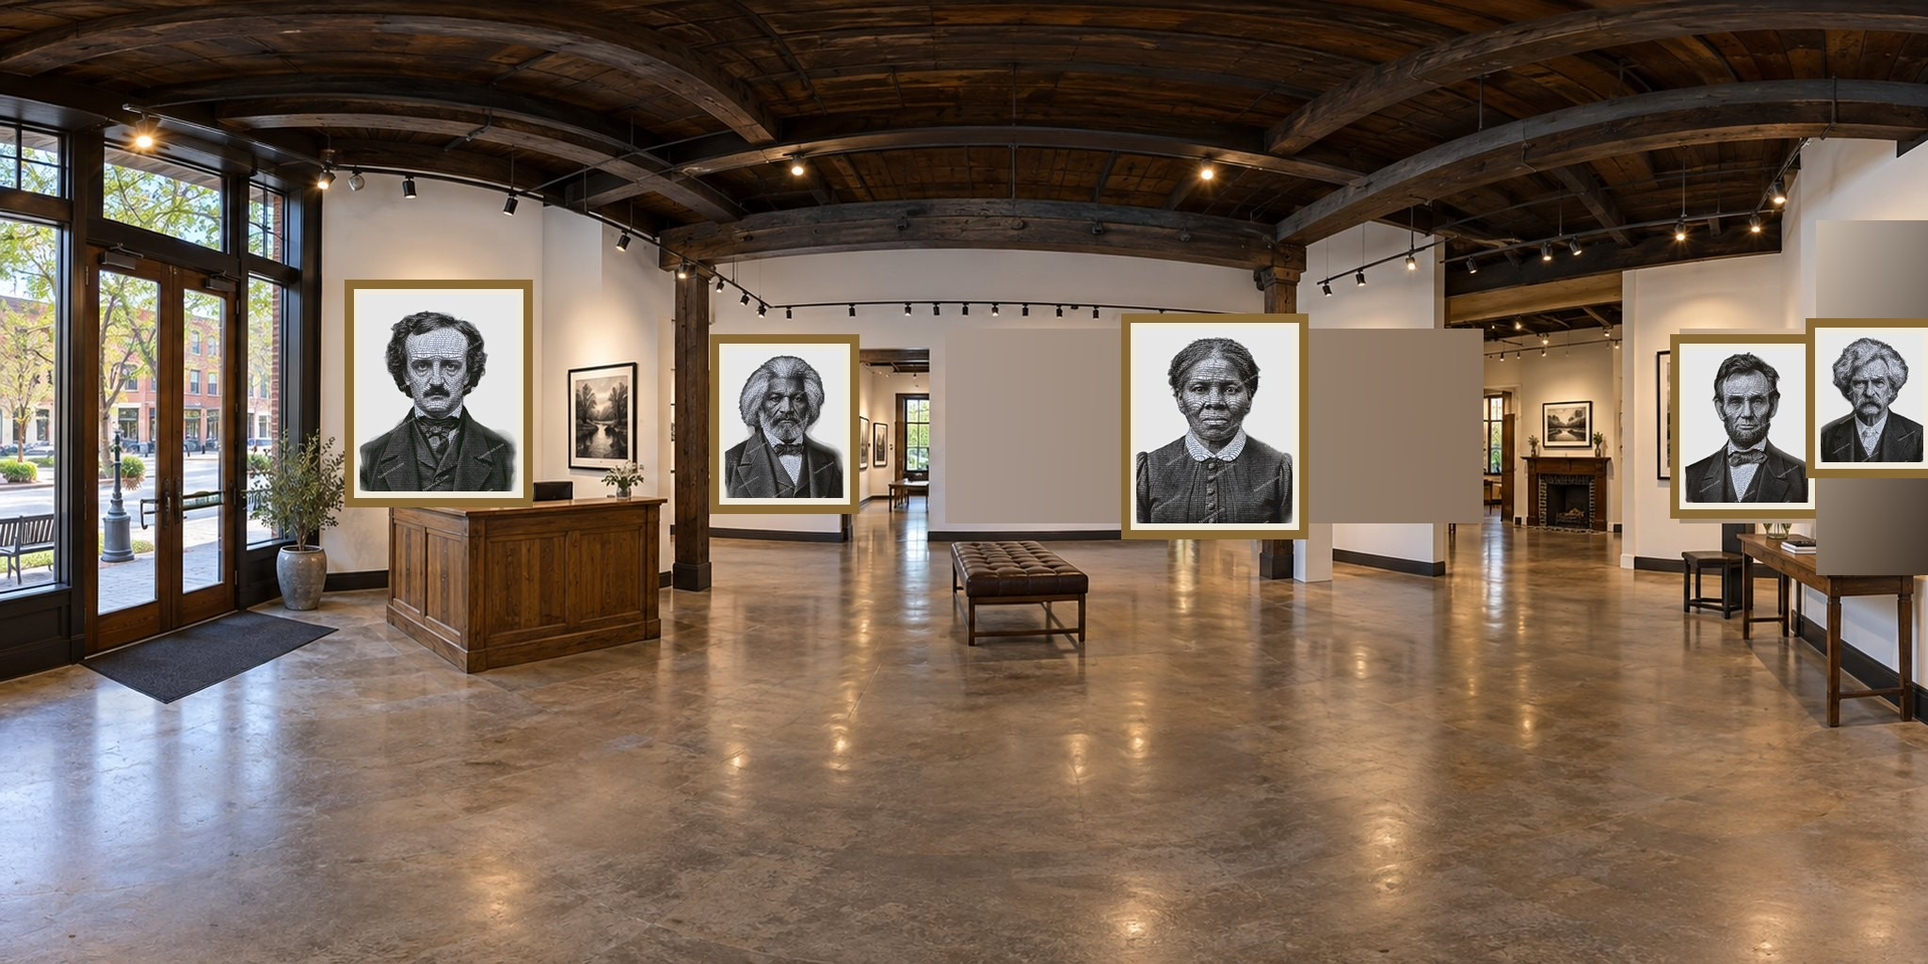
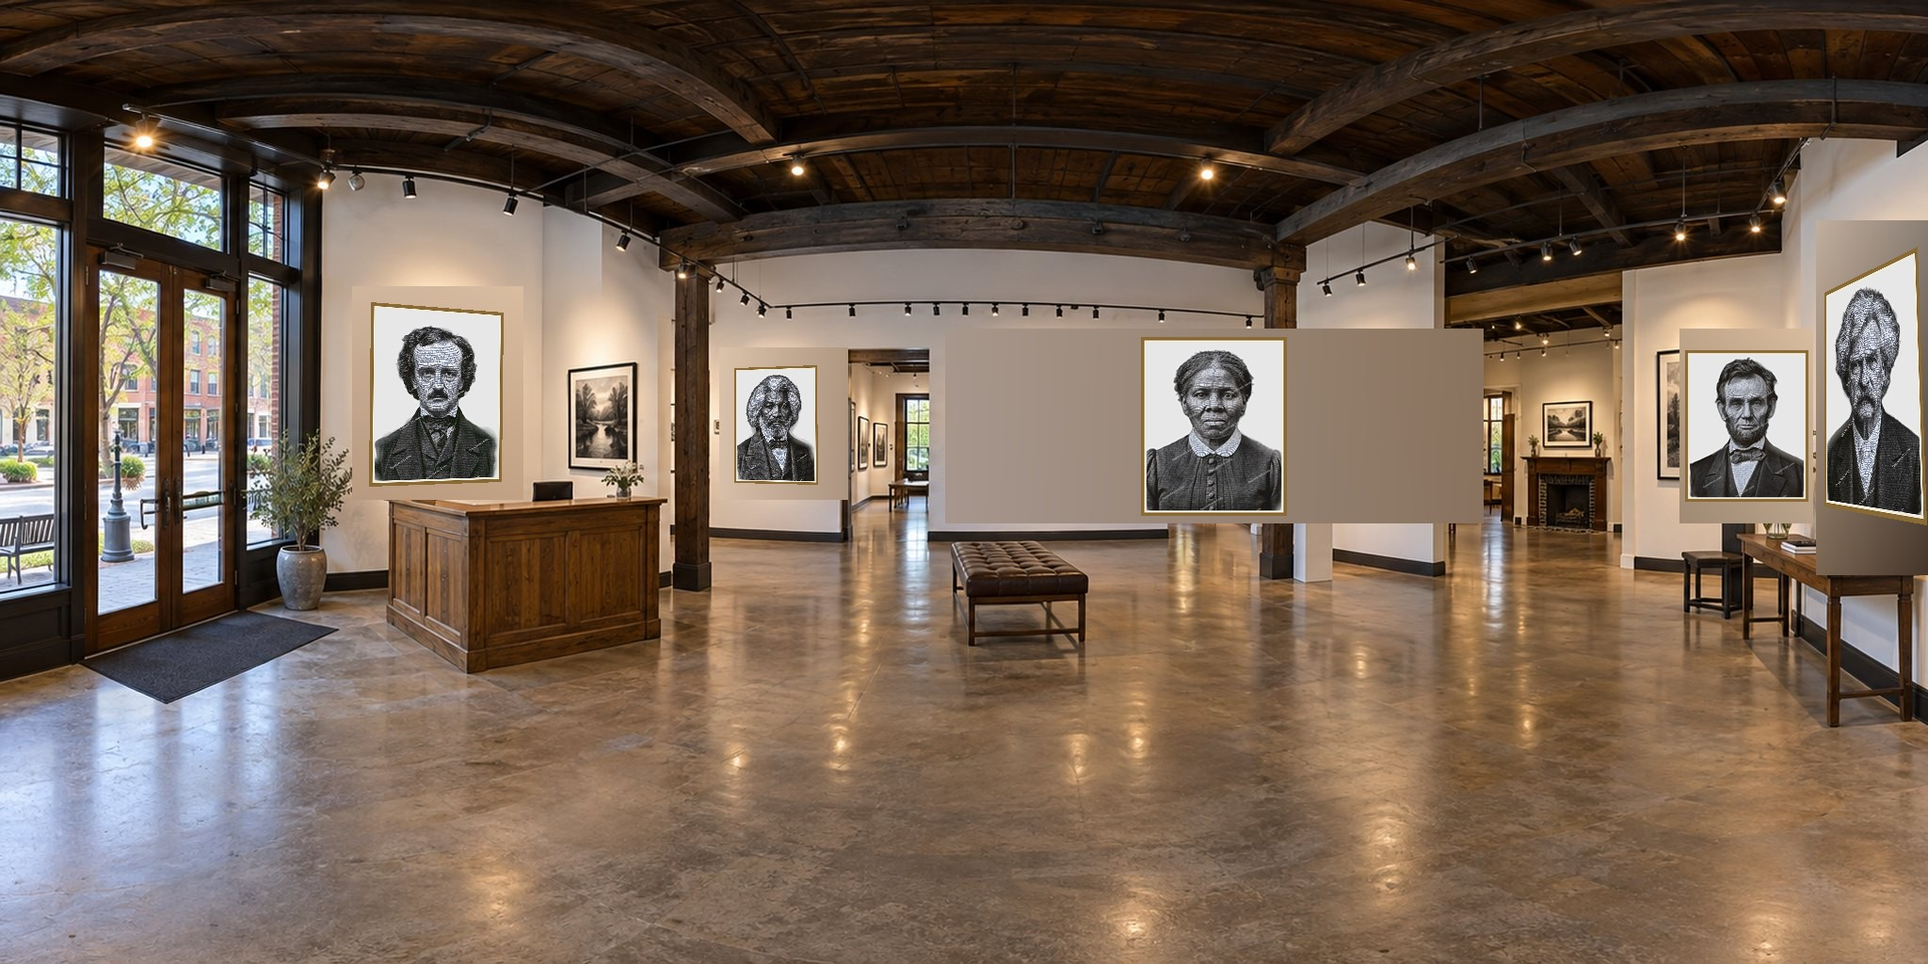
Photo tour: perspective-match baked portraits to the real frame's angle on the wall
The previous bake erased each real frame's original art and drew our own
portrait in a freshly-drawn AXIS-ALIGNED gold frame. That fixed the earlier
shape-mismatch problem, but missed a separate one: several of these frames
sit on a wall seen at an angle in the photo -- especially near the edges of
each panorama, where the wall visibly recedes -- and a real frame there
appears skewed/trapezoidal, not a plain rectangle. A flat, unskewed frame
pasted onto an angled wall reads as exactly that: pasted on, not actually
mounted there.

Before erasing each frame, OpenCV now detects its real four corners
(threshold + contour polygon approximation, tried across several thresholds
since frame darkness varies by room lighting) and the portrait + frame is
perspective-warped into that exact quadrilateral, so it inherits the same
skew as whatever real frame used to occupy that spot. Verified the warp math
itself against a synthetic labeled rectangle before trusting it on real
photos -- a transform this easy to get subtly backwards is exactly the kind
of bug this feature kept finding the hard way. 14 of 19 baked portraits get
a real perspective-matched quad; the rest fall back to the previous
axis-aligned framing when no clean quad can be found (not a regression from
before).

Two detector bugs surfaced and got fixed along the way: a degenerate quad
(near-collinear points) needed a fallback rather than crashing the whole
[…]

diff --git a/typography_engine/static/gallery.html b/typography_engine/static/gallery.html
@@ -463,12 +463,17 @@ let raycaster, pointerNDC;   // built in initRenderer, once THREE is actually lo
 // frame's original art entirely -- gradient-filled from the real wall color sampled
 // just outside it, not covered by anything foreign -- and draws our own portrait, at
 // its own correct proportions, in a freshly-drawn gold frame, sized to sit comfortably
-// in the erased area rather than forced to fill it exactly. What's built at runtime is
-// just an invisible click/caption target at each baked position, for navigation --
-// there is no separate visible mesh over the art itself, it's genuinely part of the
-// photo. 19 of 23 catalog items have a spot across the three rooms this way; the rest
-// still sell fine from the grid and the corridor.
-const PHOTO_BAKE_VERSION = 6;    // bump whenever the baked panorama JPGs are regenerated
+// in the erased area rather than forced to fill it exactly. Where OpenCV can find that
+// real frame's actual four corners (most of them), the portrait is perspective-warped
+// into that exact quadrilateral, so it inherits the same skew as whatever real frame
+// used to hang on that same angled section of wall, rather than sitting as a flat
+// unskewed rectangle on a wall the camera sees at an angle -- most visible on frames
+// near the edges of each panorama, where the wall recedes noticeably. What's built at
+// runtime is just an invisible click/caption target at each baked position, for
+// navigation -- there is no separate visible mesh over the art itself, it's genuinely
+// part of the photo. 19 of 23 catalog items have a spot across the three rooms this
+// way; the rest still sell fine from the grid and the corridor.
+const PHOTO_BAKE_VERSION = 7;    // bump whenever the baked panorama JPGs are regenerated
 const PHOTO_ROOM_RADIUS = 900;   // the panorama sphere
 const PHOTO_FRAME_RADIUS = 650;  // depth of the invisible click targets (matches bake)
 // Yaw values below are pre-corrected for THREE's actual SphereGeometry UV convention
@@ -480,29 +485,29 @@ const PHOTO_FRAME_RADIUS = 650;  // depth of the invisible click targets (matche
 // before this was calibrated, and easy to miss since it looks approximately plausible.
 const PHOTO_ROOMS = [
   { name:"The Entrance", src:"/static/gallery/photoscene/entrance.jpg", slots:[
-    {id:"edgar-allan-poe", yaw:-2.9974, pitch:0.2899, w:409.6, h:503.8},
-    {id:"frederick-douglass", yaw:2.1583, pitch:0.1902, w:321.4, h:390.0},
-    {id:"harriet-tubman", yaw:0.7547, pitch:0.1825, w:407.5, h:499.2},
-    {id:"abraham-lincoln", yaw:-0.9787, pitch:0.1825, w:332.0, h:400.9},
-    {id:"mark-twain", yaw:-1.3883, pitch:0.2746, w:285.6, h:344.8},
+    {id:"edgar-allan-poe", yaw:-2.9928, pitch:0.2853, w:289.8, h:403.1},
+    {id:"frederick-douglass", yaw:2.1829, pitch:0.1856, w:178.6, h:256.5},
+    {id:"harriet-tubman", yaw:0.7563, pitch:0.181, w:315.1, h:390.0},
+    {id:"abraham-lincoln", yaw:-0.9802, pitch:0.1825, w:264.8, h:327.8},
+    {id:"mark-twain", yaw:-1.4005, pitch:0.3129, w:219.4, h:634.5},
   ]},
   { name:"The Main Gallery", src:"/static/gallery/photoscene/main-room.jpg", slots:[
-    {id:"susan-b-anthony", yaw:-2.1844, pitch:0.2132, w:431.7, h:531.5},
-    {id:"walt-whitman", yaw:-3.1278, pitch:0.2362, w:460.7, h:571.5},
-    {id:"sojourner-truth", yaw:2.5802, pitch:0.1979, w:351.2, h:427.3},
-    {id:"theodore-roosevelt", yaw:0.0399, pitch:0.2899, w:492.3, h:612.4},
-    {id:"nikola-tesla", yaw:-0.5415, pitch:0.2209, w:381.3, h:465.1},
-    {id:"ulysses-s-grant", yaw:-1.0554, pitch:0.2899, w:471.9, h:585.8},
+    {id:"susan-b-anthony", yaw:-2.1905, pitch:0.2086, w:321.4, h:501.5},
+    {id:"walt-whitman", yaw:-3.1232, pitch:0.2332, w:359.8, h:496.9},
+    {id:"sojourner-truth", yaw:2.5802, pitch:0.1963, w:283.6, h:351.2},
+    {id:"theodore-roosevelt", yaw:-0.0015, pitch:0.2071, w:383.5, h:508.4},
+    {id:"nikola-tesla", yaw:-0.4985, pitch:0.1841, w:166.4, h:334.1},
+    {id:"ulysses-s-grant", yaw:-1.0538, pitch:0.2884, w:400.9, h:501.5},
   ]},
   { name:"The Rear Salon", src:"/static/gallery/photoscene/rear-room.jpg", slots:[
-    {id:"booker-t-washington", yaw:-2.0064, pitch:0.2669, w:614.9, h:779.2},
-    {id:"sitting-bull", yaw:-2.6446, pitch:0.2439, w:332.0, h:400.9},
-    {id:"geronimo", yaw:2.5525, pitch:0.2025, w:447.2, h:552.5},
-    {id:"clara-barton", yaw:1.2149, pitch:0.1979, w:332.0, h:400.9},
-    {id:"elizabeth-cady-stanton", yaw:0.8084, pitch:0.2056, w:340.5, h:414.0},
-    {id:"charles-darwin", yaw:0.3559, pitch:0.2746, w:310.8, h:377.0},
-    {id:"queen-victoria", yaw:-0.5568, pitch:0.2669, w:566.7, h:715.5},
-    {id:"john-brown", yaw:-1.3192, pitch:0.2362, w:374.8, h:458.4},
+    {id:"booker-t-washington", yaw:-2.008, pitch:0.2669, w:503.8, h:634.5},
+    {id:"sitting-bull", yaw:-2.6492, pitch:0.1841, w:203.0, h:429.5},
+    {id:"geronimo", yaw:2.5295, pitch:0.1933, w:302.4, h:394.4},
+    {id:"clara-barton", yaw:1.2456, pitch:0.1718, w:266.9, h:351.2},
+    {id:"elizabeth-cady-stanton", yaw:0.7977, pitch:0.1672, w:205.1, h:392.2},
+    {id:"charles-darwin", yaw:0.2654, pitch:0.1657, w:219.4, h:329.9},
+    {id:"queen-victoria", yaw:-0.5584, pitch:0.2654, w:492.3, h:622.2},
+    {id:"john-brown", yaw:-1.2977, pitch:0.2102, w:246.2, h:513.0},
   ]},
 ];
 let photoRoom = 0, photoYaw = 0, photoPitch = 0, photoFov = 66;

diff --git a/typography_engine/ops/photoscene-composite.py b/typography_engine/ops/photoscene-composite.py
@@ -12,22 +12,28 @@ art showing round the edges, or padded the gap with an obviously-pasted-on recta
 That's not a technique problem, it's a shape problem -- you cannot losslessly fit a
 4:5 rectangle into a 3:1 one.
 
-This version sidesteps the whole problem: for each real frame ERASE the original
-photographed art -- gradient-fill it from the real wall color sampled just outside its
-own edges, removing it completely, not covering it with anything foreign -- and then
-draw our own portrait, at its own correct proportions, in a freshly-drawn frame,
-sized and centered in the erased area (not stretched or forced to any particular
-size). Because the surrounding wall is now genuinely wall-colored (not a mismatched
-patch), the portrait never needs to fill the whole erased area -- extra erased space
-either side just reads as wall, the same as any other gap between frames in a real
-gallery.
+The version after that sidestepped the shape problem by erasing the original art
+(gradient-filled from the real wall color) and drawing our own portrait, at its own
+proportions, in a freshly-drawn AXIS-ALIGNED gold frame. That fixed the shape problem
+but missed a different one: several of these frames sit on a wall seen at an angle in
+the photo (especially near the edges of each panorama), where a real frame appears
+skewed/trapezoidal, not a plain rectangle -- an axis-aligned frame pasted there reads
+as flat and pasted-on rather than actually mounted on that angled wall.
+
+This version fixes THAT: before erasing each frame, OpenCV detects its real four
+corners (find_frame_quad(), thresholding + contour polygon approximation -- works for
+most frames; the few it can't find a clean quad for fall back to an axis-aligned box,
+same as before, not a regression). The portrait + frame is then perspective-warped
+into that exact quadrilateral (find_coeffs() -- the standard 8-parameter PIL recipe,
+verified against a synthetic test before use) before compositing, so it inherits the
+same skew as whatever real frame used to occupy that spot.
 
 Always reads its source panoramas from ops/photoscene-originals/*.jpg -- the true,
 never-baked photos as uploaded, kept permanently for exactly this purpose -- and
 writes the result to static/gallery/photoscene/*.jpg, overwriting whatever's there.
 Do NOT "fix" this to read from static/gallery/photoscene/ instead: those get
 committed already-baked, so reading from there bakes on top of the previous bake
-rather than the real photo. Needs Pillow and NumPy:
+rather than the real photo. Needs Pillow, NumPy and OpenCV (opencv-python-headless):
     python3 ops/photoscene-composite.py
 
 After running, paste the printed PHOTO_ROOMS block into gallery.html verbatim (it
@@ -47,6 +53,7 @@ the actual baked portrait, which is exactly what happened here before this was f
 import math
 from pathlib import Path
 
+import cv2
 import numpy as np
 from PIL import Image, ImageDraw
 
@@ -60,9 +67,8 @@ ROOM_NAMES = {"entrance": "The Entrance", "main-room": "The Main Gallery", "rear
 # Outer pixel bounding boxes (x0,y0,x1,y1) of real frames in each 2048x1024
 # equirectangular photo -- hand-measured by cropping+gridding the image and reading
 # it off (see conversation history / ask Claude to redo this if the panoramas ever
-# change). Unlike earlier versions, the box's own aspect ratio no longer matters: it's
-# erased, not fit into, so a wide or narrow real frame is exactly as usable as a
-# square one now.
+# change). Used as a search window for find_frame_quad() and as the erase area; the
+# box's own aspect ratio doesn't matter for either.
 REGIONS = {
     "entrance": [
         ("edgar-allan-poe", (390, 320, 540, 515)),
@@ -94,10 +100,133 @@ REGIONS = {
 W, H = 2048, 1024
 RADIUS = 650       # matches PHOTO_FRAME_RADIUS in gallery.html
 ERASE_MARGIN = 16  # px beyond the measured box, so the real frame's border/mat is fully gone
-EDGE_SAMPLE = 10    # px thickness of the strip sampled just outside the erase box for its fill color
+EDGE_SAMPLE = 10   # px thickness of the strip sampled just outside the erase box for its fill color
 FRAME_GOLD = (138, 106, 52)
 FRAME_MAT = (239, 233, 220)
 BORDER_PX, MAT_PX = 10, 6
+ART_ASPECT = 900 / 1125
+
+
+def find_frame_quad(im_rgb, x0, y0, x1, y1, pad=35):
+    """The real frame's actual four corners in the ORIGINAL (pre-erase) photo, via
+    OpenCV: threshold for dark pixels (the frame's border reads much darker than the
+    wall), take the largest contour whose area is plausible for this region, simplify
+    it to a polygon, and require exactly 4 points centered near where we expect the
+    frame to be. Tries several thresholds since frame darkness varies by room
+    lighting. Returns None (caller falls back to an axis-aligned box) if nothing
+    clean is found -- this is a best-effort visual improvement, not something the
+    bake should fail over."""
+    exp_area = (x1 - x0) * (y1 - y0)
+    ecx, ecy = (x0 + x1) / 2, (y0 + y1) / 2
+    ix0, iy0 = max(0, x0 - pad), max(0, y0 - pad)
+    ix1, iy1 = min(im_rgb.shape[1], x1 + pad), min(im_rgb.shape[0], y1 + pad)
+    crop = im_rgb[iy0:iy1, ix0:ix1]
+    gray = cv2.cvtColor(crop, cv2.COLOR_RGB2GRAY)
+    for thresh in (50, 60, 70, 80, 90, 100, 110):
+        _, mask = cv2.threshold(gray, thresh, 255, cv2.THRESH_BINARY_INV)
+        contours, _ = cv2.findContours(mask, cv2.RETR_EXTERNAL, cv2.CHAIN_APPROX_SIMPLE)
+        for c in sorted(contours, key=cv2.contourArea, reverse=True)[:2]:
+            area = cv2.contourArea(c)
+            if not (exp_area * 0.4 <= area <= exp_area * 1.8):
+                continue
+            peri = cv2.arcLength(c, True)
+            for eps_frac in (0.01, 0.015, 0.02, 0.03, 0.04, 0.05, 0.07):
+                approx = cv2.approxPolyDP(c, eps_frac * peri, True)
+                if len(approx) != 4:
+                    continue
+                pts = approx.reshape(-1, 2).astype(float) + [ix0, iy0]
+                cx, cy = pts[:, 0].mean(), pts[:, 1].mean()
+                if not (abs(cx - ecx) < (x1 - x0) * 0.3 and abs(cy - ecy) < (y1 - y0) * 0.3):
+                    continue
+                quad = order_points(pts)
+                # Reject a quad whose aspect ratio is wildly different from the
+                # region's own -- a sign order_points picked a bad point-to-corner
+                # assignment (e.g. rotated ~90deg) rather than a genuinely different
+                # frame shape. Caught exactly this on Sojourner Truth's frame: a
+                # portrait-shaped region detected as landscape-shaped, which then
+                # warped the portrait sideways.
+                tl, tr, br, bl = quad
+                v = (np.linalg.norm(tl - bl) + np.linalg.norm(tr - br)) / 2
+                h = (np.linalg.norm(tl - tr) + np.linalg.norm(bl - br)) / 2
+                detected_aspect = h / max(v, 1e-6)
+                expected_aspect = (x1 - x0) / max(y1 - y0, 1e-6)
+                # Only reject an orientation MISMATCH (expected roughly portrait,
+                # detected roughly landscape, or vice versa) -- real perspective skew
+                # legitimately changes how tall/wide a detected quad's edges measure
+                # relative to the rough hand-measured region (see Mark Twain, whose
+                # real frame IS unusually tall from this camera angle), so matching
+                # degree, not just matching orientation, rejected good detections too.
+                if (expected_aspect > 1.05) != (detected_aspect > 1.05):
+                    continue
+                return quad
+    return None
+
+
+def order_points(pts):
+    """Sort 4 arbitrary-order points into [top-left, top-right, bottom-right,
+    bottom-left] -- the standard sum/difference trick (tl has the smallest x+y, br
+    the largest; tr has the smallest y-x, bl the largest)."""
+    s = pts.sum(axis=1)
+    d = pts[:, 1] - pts[:, 0]
+    return np.array([pts[np.argmin(s)], pts[np.argmin(d)], pts[np.argmax(s)], pts[np.argmax(d)]])
+
+
+def find_coeffs(dest_pts, src_pts):
+    """The standard 8-parameter PIL perspective-transform recipe: coefficients that
+    make Image.transform(..., PERSPECTIVE, coeffs) map each DEST pixel to the
+    corresponding SRC pixel. Verified against a synthetic labeled-rectangle test
+    before trusting it on real data (a transform this easy to get subtly backwards
+    is exactly the kind of bug this session kept finding the hard way)."""
+    matrix = []
+    for (x, y), (X, Y) in zip(dest_pts, src_pts):
+        matrix.append([x, y, 1, 0, 0, 0, -X * x, -X * y])
+        matrix.append([0, 0, 0, x, y, 1, -Y * x, -Y * y])
+    A = np.array(matrix, dtype=float)
+    B = np.array(src_pts, dtype=float).reshape(8)
+    return np.linalg.solve(A, B)
+
+
+def build_framed_portrait(art):
+    """The portrait on its own RGBA canvas, in a freshly-drawn gold border + mat --
+    since the real photographed frame is erased, every portrait gets the same
+    deliberate framing rather than relying on whatever frame used to be there."""
+    pw, ph = 400, round(400 / ART_ASPECT)
+    fw, fh = pw + 2 * (BORDER_PX + MAT_PX), ph + 2 * (BORDER_PX + MAT_PX)
+    canvas = Image.new("RGBA", (fw, fh), (0, 0, 0, 0))
+    d = ImageDraw.Draw(canvas)
+    d.rectangle([0, 0, fw - 1, fh - 1], fill=FRAME_GOLD + (255,))
+    d.rectangle([BORDER_PX, BORDER_PX, fw - 1 - BORDER_PX, fh - 1 - BORDER_PX], fill=FRAME_MAT + (255,))
+    resized = art.resize((pw, ph), Image.LANCZOS)
+    canvas.paste(resized, (BORDER_PX + MAT_PX, BORDER_PX + MAT_PX))
+    return canvas
+
+
+def composite_axis_aligned(im, framed, cx, cy, max_w, max_h):
+    """No detected quad: center the framed portrait, scaled to sit comfortably in the
+    erased area (not stretched or forced to fill it -- see conversation history for
+    why that looked wrong on oddly-shaped areas)."""
+    fw, fh = framed.size
+    scale = min(1.0, max_w * 0.92 / fw, max_h * 0.92 / fh, 320 / fh)
+    fw2, fh2 = max(1, round(fw * scale)), max(1, round(fh * scale))
+    framed2 = framed.resize((fw2, fh2), Image.LANCZOS)
+    x0, y0 = round(cx - fw2 / 2), round(cy - fh2 / 2)
+    im.paste(framed2, (x0, y0), framed2)
+    return (x0, y0, x0 + fw2, y0 + fh2)
+
+
+def composite_perspective(im, framed, quad):
+    """Warp the framed portrait into the real frame's own detected quadrilateral."""
+    xs, ys = quad[:, 0], quad[:, 1]
+    ox0, oy0 = int(np.floor(xs.min())), int(np.floor(ys.min()))
+    ox1, oy1 = int(np.ceil(xs.max())), int(np.ceil(ys.max()))
+    local_quad = quad - [ox0, oy0]
+    fw, fh = framed.size
+    src_corners = [(0, 0), (fw, 0), (fw, fh), (0, fh)]
+    coeffs = find_coeffs(local_quad.tolist(), src_corners)
+    warped = framed.transform((ox1 - ox0, oy1 - oy0), Image.PERSPECTIVE, coeffs,
+                               Image.BICUBIC, fillcolor=(0, 0, 0, 0))
+    im.paste(warped, (ox0, oy0), warped)
+    return (ox0, oy0, ox1, oy1)
 
 
 def erase_region(arr, x0, y0, x1, y1):
@@ -123,31 +252,6 @@ def erase_region(arr, x0, y0, x1, y1):
     arr[y0:y1, x0:x1] = fill
 
 
-def frame_size(bw, bh):
-    """A consistent-feeling portrait size for this erased area -- filling it fully is
-    no longer the goal (see module docstring), just sitting comfortably inside it."""
-    target_h = max(140, min(bh, 320))
-    target_w = target_h * (900 / 1125)
-    if target_w > bw * 0.92:
-        target_w = bw * 0.92
-        target_h = target_w / (900 / 1125)
-    return round(target_w), round(target_h)
-
-
-def draw_framed_portrait(im, art, cx, cy, pw, ph):
-    """Paste the portrait centered at (cx,cy) inside a small drawn gold border + mat
-    -- since the real photographed frame is gone (erased), every portrait gets the
-    same deliberate framing rather than relying on whatever frame used to be there."""
-    x0, y0 = round(cx - pw / 2), round(cy - ph / 2)
-    d = ImageDraw.Draw(im)
-    ox0, oy0 = x0 - MAT_PX - BORDER_PX, y0 - MAT_PX - BORDER_PX
-    ox1, oy1 = x0 + pw + MAT_PX + BORDER_PX, y0 + ph + MAT_PX + BORDER_PX
-    d.rectangle([ox0, oy0, ox1, oy1], fill=FRAME_GOLD)
-    d.rectangle([x0 - MAT_PX, y0 - MAT_PX, x0 + pw + MAT_PX, y0 + ph + MAT_PX], fill=FRAME_MAT)
-    resized = art.resize((pw, ph), Image.LANCZOS)
-    im.paste(resized, (x0, y0))
-
-
 def yaw_pitch(px, py):
     naive_yaw = (px / W - 0.5) * 2 * math.pi
     yaw = math.pi / 2 - naive_yaw               # see module docstring
@@ -157,18 +261,17 @@ def yaw_pitch(px, py):
     return yaw, pitch
 
 
-def world_size(pw, ph, bx0, by0, bx1, by1):
-    # Angular size derived from the DRAWN frame (including its border/mat), not the
-    # raw portrait pixels, so the invisible click target matches what's on screen.
-    fw, fh = pw + 2 * (BORDER_PX + MAT_PX), ph + 2 * (BORDER_PX + MAT_PX)
-    cx, cy = (bx0 + bx1) / 2, (by0 + by1) / 2
-    ang_w = fw / W * 2 * math.pi
-    ang_h = fh / H * math.pi
+def world_size(px0, py0, px1, py1):
+    # Angular size derived from the drawn frame's actual on-screen bounding box, so
+    # the invisible click target matches what's on screen either way (warped or not).
+    ang_w = (px1 - px0) / W * 2 * math.pi
+    ang_h = (py1 - py0) / H * math.pi
     return 2 * RADIUS * math.tan(ang_w / 2), 2 * RADIUS * math.tan(ang_h / 2)
 
 
 def main():
     total = 0
+    quad_hits = 0
     js_lines = ["const PHOTO_ROOMS = ["]
     for room, regions in REGIONS.items():
         im = Image.open(ORIGINALS_DIR / f"{room}.jpg").convert("RGB")
@@ -176,22 +279,31 @@ def main():
         js_lines.append(f'  {{ name:"{ROOM_NAMES[room]}", src:"/static/gallery/photoscene/{room}.jpg", slots:[')
         for (it, (x0, y0, x1, y1)) in regions:
             total += 1
-            ex0 = max(0, x0 - ERASE_MARGIN)
-            ey0 = max(0, y0 - ERASE_MARGIN)
-            ex1 = min(W, x1 + ERASE_MARGIN)
-            ey1 = min(H, y1 + ERASE_MARGIN)
+            quad = find_frame_quad(arr, x0, y0, x1, y1)
+            if quad is not None:
+                quad_hits += 1
+
+            ex0, ey0 = max(0, x0 - ERASE_MARGIN), max(0, y0 - ERASE_MARGIN)
+            ex1, ey1 = min(W, x1 + ERASE_MARGIN), min(H, y1 + ERASE_MARGIN)
             erase_region(arr, ex0, ey0, ex1, ey1)
-            im = Image.fromarray(arr)
+            im = Image.fromarray(arr).convert("RGBA")
 
-            bw, bh = ex1 - ex0, ey1 - ey0
-            pw, ph = frame_size(bw, bh)
-            cx, cy = (ex0 + ex1) / 2, (ey0 + ey1) / 2
-            art = Image.open(ART_DIR / f"{it}.png").convert("RGB")
-            draw_framed_portrait(im, art, cx, cy, pw, ph)
-            arr = np.array(im)  # keep arr in sync for the next erase_region call
+            framed = build_framed_portrait(Image.open(ART_DIR / f"{it}.png").convert("RGB"))
+            if quad is not None:
+                try:
+                    px0, py0, px1, py1 = composite_perspective(im, framed, quad)
+                except np.linalg.LinAlgError:
+                    print(f"  {it}: detected quad was degenerate, falling back to axis-aligned")
+                    quad = None
+            if quad is None:
+                cx, cy = (ex0 + ex1) / 2, (ey0 + ey1) / 2
+                px0, py0, px1, py1 = composite_axis_aligned(im, framed, cx, cy, ex1 - ex0, ey1 - ey0)
 
-            yaw, pitch = yaw_pitch(cx, cy)
-            ww, wh = world_size(pw, ph, ex0, ey0, ex1, ey1)
+            im = im.convert("RGB")
+            arr = np.array(im)  # keep arr in sync for the next find_frame_quad/erase_region call
+
+            yaw, pitch = yaw_pitch((px0 + px1) / 2, (py0 + py1) / 2)
+            ww, wh = world_size(px0, py0, px1, py1)
             js_lines.append(
                 f'    {{id:"{it}", yaw:{round(yaw, 4)}, pitch:{round(pitch, 4)}, '
                 f'w:{round(ww, 1)}, h:{round(wh, 1)}}},'
@@ -201,7 +313,7 @@ def main():
         print(f"{room}: baked {len(regions)} portraits")
     js_lines.append("];")
 
-    print(f"\nTOTAL BAKED: {total}\n")
+    print(f"\nTOTAL BAKED: {total}  (perspective-matched: {quad_hits}, axis-aligned fallback: {total - quad_hits})\n")
     print("\n".join(js_lines))
 
 
